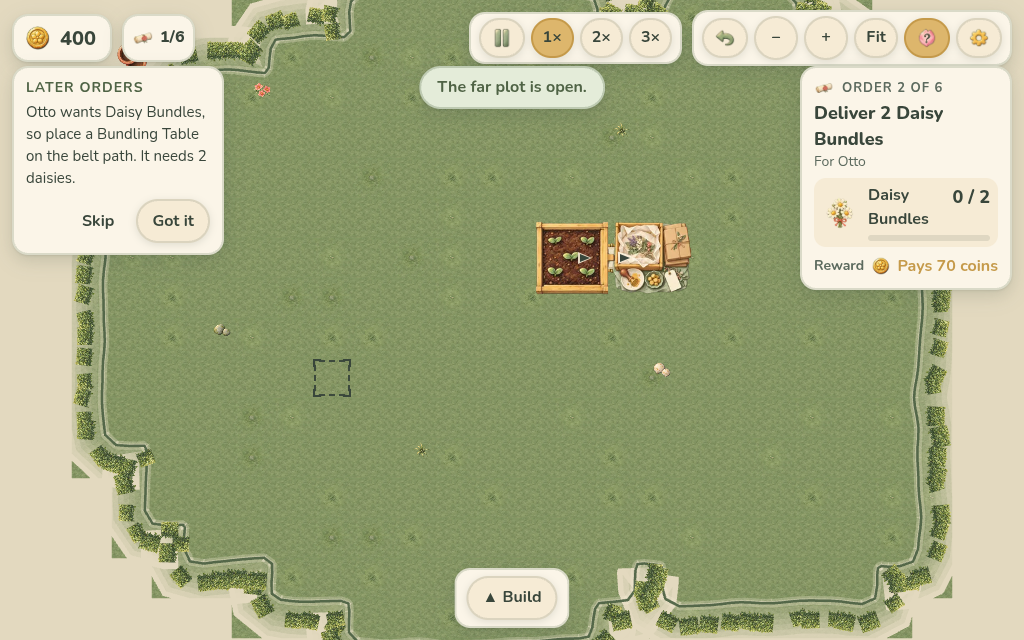
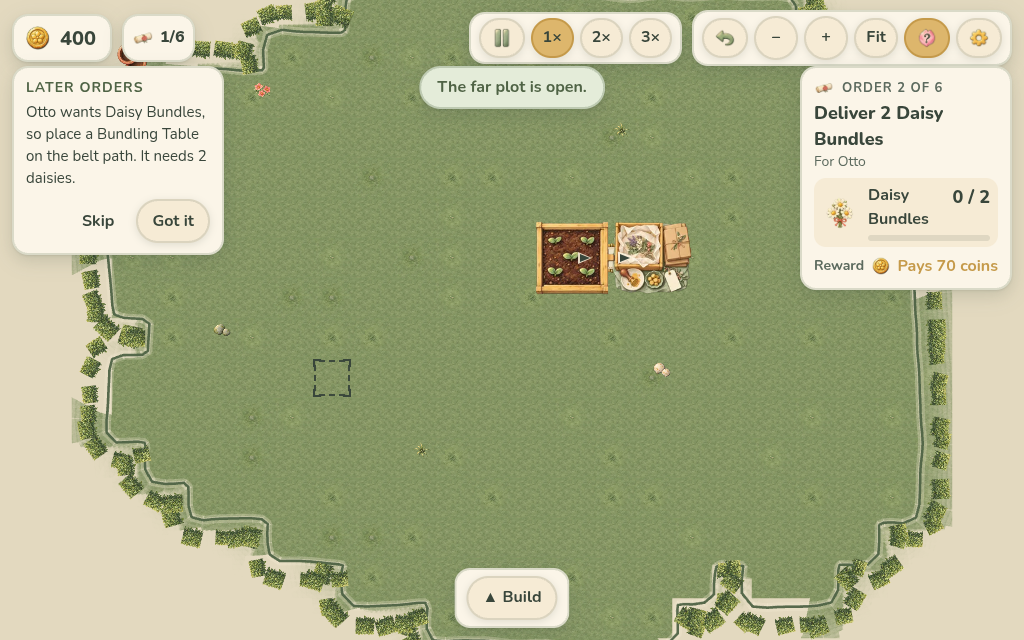
Checkpoint: run8 lumpier plot mask + label (producer commit after stall)

diff --git a/src/game/PetalScene.ts b/src/game/PetalScene.ts
@@ -127,7 +127,8 @@ export class PetalScene extends Phaser.Scene {
 
     this.setupInput();
     this.scale.on('resize', () => this.applyFit(this.camCtl.reframe(this.store.ui.paletteOpen)));
-    (window as unknown as { __cam?: unknown }).__cam = this.cameras.main;
+    (window as unknown as { __cam?: unknown; __scene?: unknown }).__cam = this.cameras.main;
+    (window as unknown as { __scene?: unknown }).__scene = this;
     this.ready = true;
   }
 
@@ -192,10 +193,12 @@ export class PetalScene extends Phaser.Scene {
       const [x, y] = k.split(',').map(Number);
       for (let dy = -1; dy <= 1; dy++) for (let dx = -1; dx <= 1; dx++) lawn.add(`${x + dx},${y + dy}`);
     }
+    // Open tiles sit above the fade so a fade stroke crossing a narrow bay never shows on
+    // buildable lawn; the apron and the closed preview sit below it and melt away.
     for (const k of lawn) {
       const [x, y] = k.split(',').map(Number);
       const r = seeded(x, y);
-      put(`ground.grass.${r < 0.72 ? 0 : r < 0.84 ? 1 : r < 0.94 ? 2 : 3}`, x, y);
+      put(`ground.grass.${r < 0.72 ? 0 : r < 0.84 ? 1 : r < 0.94 ? 2 : 3}`, x, y, openSet.has(k) ? DEPTH.ground + 0.4 : DEPTH.ground);
     }
 
     // The organic border: traced around the open tiles, smoothed and wobbled, pushed a
@@ -203,25 +206,21 @@ export class PetalScene extends Phaser.Scene {
     const loops = organicOutline(openTiles, TILE, 7).map((l) => offset(l, TILE * 0.12));
     const fade = this.add.graphics().setDepth(DEPTH.ground + 0.3);
     const border = this.add.graphics().setDepth(DEPTH.ground + 0.5);
+    this.ground.sort((a, b) => a.depth - b.depth);
     for (const loop of loops) {
-      // Soft fade from the border out to about a tile: rings between successive outward
-      // offsets, each a little more linen, so the lawn melts into the surroundings.
-      const steps = 8;
-      const reach = TILE * 1.1;
-      let prev = loop;
+      // Soft fade from the border out past the lawn apron: linen strokes along outward
+      // offsets of the curve, each a little stronger, so the lawn melts into the surroundings.
+      // (Strokes, not ring triangles: offsets self-cross at tight bays and triangles would flip.)
+      const steps = 14;
+      const reach = TILE * 1.7;
       for (let i = 1; i <= steps; i++) {
-        const next = offset(loop, (reach * i) / steps);
-        fade.fillStyle(COLORS.linen, Math.min(1, 0.1 + (i / steps) ** 1.4 * 0.95));
-        for (let j = 0; j < loop.length; j++) {
-          const a = prev[j];
-          const b = prev[(j + 1) % loop.length];
-          const c = next[(j + 1) % loop.length];
-          const d = next[j];
-          fade.fillTriangle(a.x, a.y, b.x, b.y, c.x, c.y);
-          fade.fillTriangle(a.x, a.y, c.x, c.y, d.x, d.y);
-        }
-        prev = next;
+        const d = (reach * i) / steps;
+        // Each stroke is wider than the spacing so neighbours overlap into one gradient.
+        fade.lineStyle((reach / steps) * 2.6, COLORS.linen, Math.min(1, 0.05 + (i / steps) ** 1.6 * 0.6));
+        fade.strokePoints(offset(loop, d), true, true);
       }
+      fade.lineStyle(TILE * 0.8, COLORS.linen, 1);
+      fade.strokePoints(offset(loop, reach + TILE * 0.35), true, true);
       // One continuous painted border: a soft glow, the line, and a thin cream highlight.
       border.lineStyle(14, COLORS.cream, 0.28);
       border.strokePoints(loop, true, true);
@@ -250,17 +249,19 @@ export class PetalScene extends Phaser.Scene {
     // Closed field preview: a tint, the future border as a dotted kraft curve, and one
     // label placed on the closed tile farthest from the field's own edge so it fits inside.
     if (closedTiles.length) {
-      const tint = this.add.graphics().setDepth(DEPTH.ground + 0.35);
-      tint.fillStyle(COLORS.moss, 0.26);
+      const tint = this.add.graphics().setDepth(DEPTH.ground + 0.2);
+      tint.fillStyle(COLORS.moss, 0.2);
       for (const t of closedTiles) tint.fillRect(t.x * TILE, t.y * TILE, TILE + 1, TILE + 1);
+      const dashed = this.add.graphics().setDepth(DEPTH.ground + 0.55);
+      this.lockedGfx.push(dashed);
       const future = organicOutline([...openTiles, ...closedTiles], TILE, 7).map((l) => offset(l, TILE * 0.12));
       for (const loop of future) {
         const pts = resample(loop, 10);
-        tint.lineStyle(3, 0xc9a978, 0.9);
+        dashed.lineStyle(3, 0xc9a978, 0.9);
         for (let i = 0; i < pts.length; i += 2) {
           const a = pts[i];
           const b = pts[(i + 1) % pts.length];
-          tint.lineBetween(a.x, a.y, b.x, b.y);
+          dashed.lineBetween(a.x, a.y, b.x, b.y);
         }
       }
       this.lockedGfx.push(tint);
@@ -313,7 +314,7 @@ export class PetalScene extends Phaser.Scene {
     }
     for (const [k, x, y, sc] of [
       ['decor.terracotta', 0, 1, 0.85],
-      ['decor.watering_can', 16, 5, 0.9],
+      ['decor.watering_can', 19, 6, 0.9],
     ] as Array<[string, number, number, number]>) {
       if (open(x, y) || closedSet.has(`${x},${y}`)) continue;
       const im = put(k, x, y, DEPTH.decor + 1, sc);

diff --git a/src/sim/data/plots.ts b/src/sim/data/plots.ts
@@ -10,40 +10,40 @@ import type { PlotDef, Rect } from '../types';
  * Masks are 20 wide; row 0 is the top. `#` is in the plot, `.` is not.
  */
 const POTTING_MASK = [
-  '......######........', // 0   a small lump at the top
-  '....##########......', // 1
-  '..##############....', // 2
+  '........#####.......', // 0   a lump at the top, off centre
+  '......#########.....', // 1
+  '..###############...', // 2
   '.################...', // 3
-  '.#################..', // 4
-  '###############.....', // 5   inlet on the east side
-  '###############.....', // 6   (packing station sits at 13,6)
-  '##################..', // 7
-  '..################..', // 8   inlet on the west side
-  '..###############...', // 9
-  '.################...', // 10  bulge back out
-  '...############.....', // 11
-  '.....#########......', // 12
-  '.......######.......', // 13  a soft lump at the bottom
+  '.##################.', // 4   bulge to the east
+  '###############.....', // 5   deep bay on the east side
+  '################....', // 6   (packing station sits at 13,6)
+  '..################..', // 7   bay on the west side
+  '....##############..', // 8   deeper still
+  '..#################.', // 9   bulge east again
+  '.################...', // 10  bulge west
+  '...##########.......', // 11  bay to the south-east
+  '.....##########.....', // 12  a lower lump
+  '........#####.......', // 13
 ];
 
 /** The expansion grows the same blob outward: it fills the two inlets and adds lobes. */
 const SOUTH_RIM_MASK = [
-  '..............###...', // 0
-  '..............####..', // 1
-  '................##..', // 2
-  '.................##.', // 3
-  '..................##', // 4
-  '...............#####', // 5   fills the east inlet
-  '...............#####', // 6
-  '..................##', // 7
-  '##................##', // 8   fills the west inlet
-  '##...............###', // 9
+  '......##.....####...', // 0
+  '....##.........###..', // 1
+  '.#...............##.', // 2
+  '#................###', // 3
+  '#..................#', // 4
+  '...............####.', // 5   fills most of the east bay
+  '................###.', // 6
+  '##................##', // 7   and the west bay
+  '.###..............##', // 8
+  '##.................#', // 9
   '#................###', // 10
-  '.##............#####', // 11
-  '.####.........######', // 12
-  '..#####......#######', // 13
-  '....#########.#####.', // 14
-  '......######........', // 15
+  '.##..........#######', // 11  a lobe to the south-east
+  '..###.........######', // 12
+  '....####.....######.', // 13
+  '......#########.##..', // 14
+  '........######......', // 15
 ];
 
 export function rectsFromMask(rows: string[], ox = 0, oy = 0): Rect[] {

diff --git a/src/sim/sim.test.ts b/src/sim/sim.test.ts
@@ -547,7 +547,7 @@ describe('save and load', () => {
     expect(loaded.sim.world.orders.activeId).toBe('order2');
     expect(loaded.sim.world.orders.progress.delivered.daisy_bundle).toBe(1);
     expect(loaded.sim.world.unlockedPlotIds).toEqual(['potting']);
-    expect(loaded.sim.world.cols).toBe(18);
+    expect(loaded.sim.world.cols).toBe(19);
     expect(loaded.sim.world.basket.daisy).toBe(1);
     expect(loaded.settings).toMatchObject({ sound: false, music: true, reducedMotion: true, tutorialDismissed: true, speed: 2 });
     expect(Object.values(loaded.sim.world.structures).some((x) => x.kind === 'packing_station')).toBe(true);
